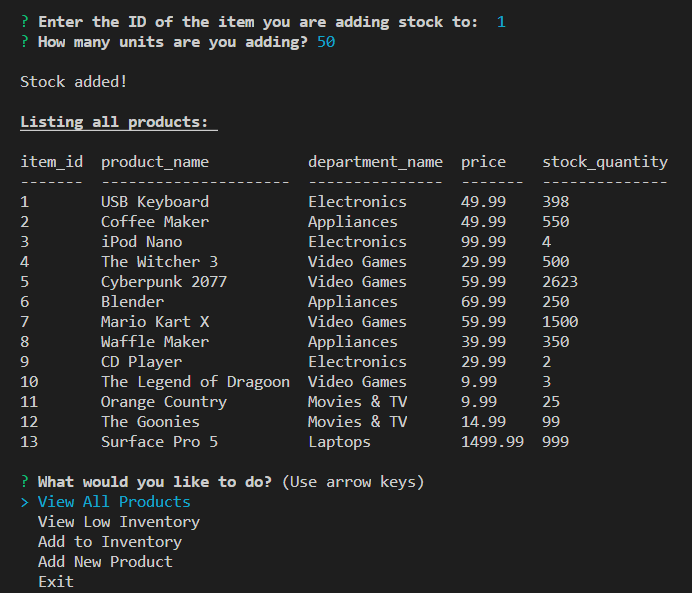
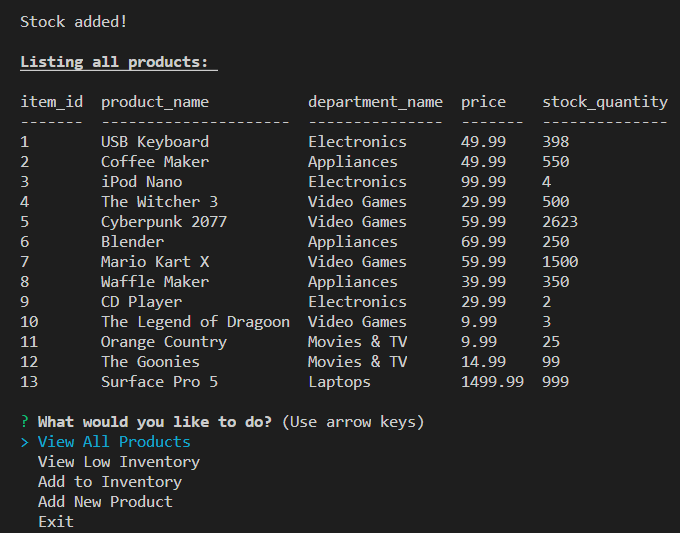
update readme screenshots

diff --git a/README.md b/README.md
@@ -49,7 +49,6 @@ Choosing "Purchase Item" prompts the user for the item's ID and a purchase amoun
 If the user attempts to purchase more units of an item than there are available, an error will be displayed.
 
 ![Purchase error](./images/customer-error.png)
-![Purchase error](./images/customer-error(1).png)
 
 #### Manager Page
 
@@ -61,7 +60,7 @@ Choosing "View All Products" displays a table of all available products.
 
 ![View all products](./images/manager-view-all.png)
 
-Choosing "View Low Inventory" displays a table of all available products with a stock count lower that 5.
+Choosing "View Low Inventory" displays a table of all available products with a stock count lower than 5.
 
 ![View low inventory](./images/manager-low-inv.png)
 
